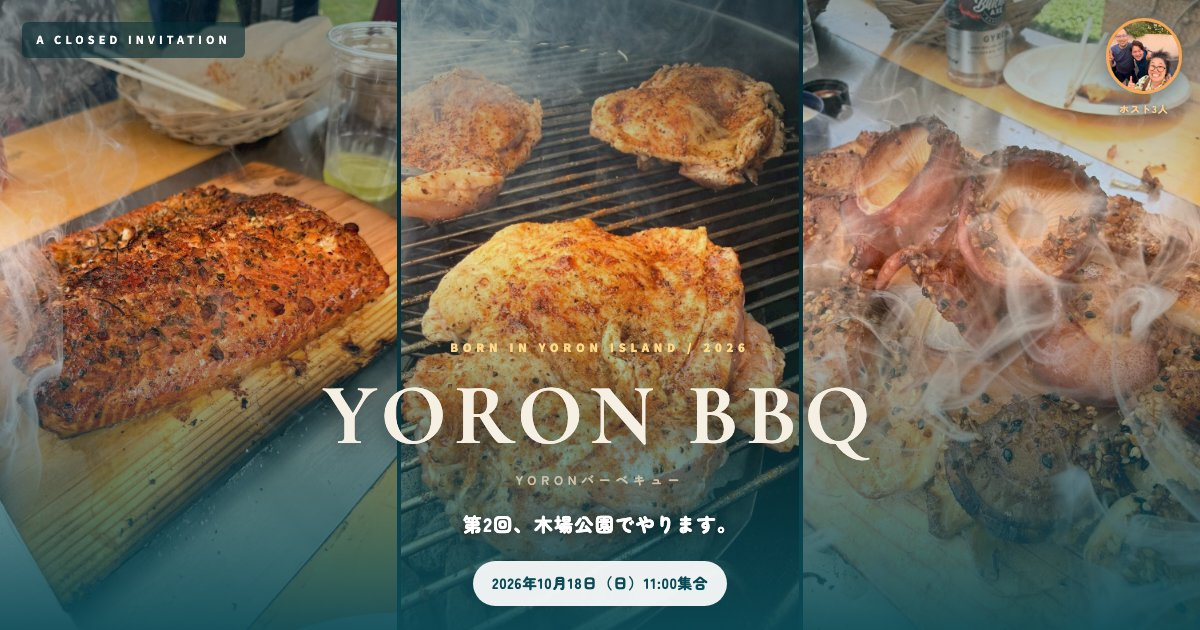
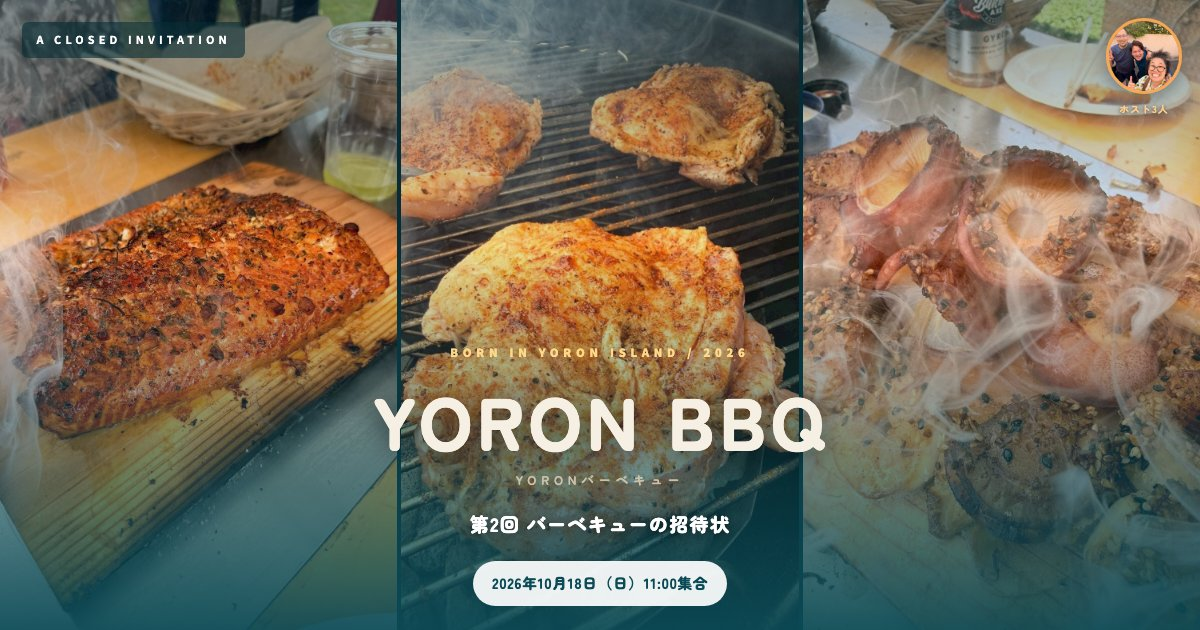
531招待状: ヒーロー見出しをZen Maru統一・トップ文言を『第2回 バーベキューの招待状』へ・冒頭に5/31開催の経緯を明記（山根FB）

Changed region(s): [[0.2467, 0.6032, 0.74, 0.7238], [0.37, 0.8143, 0.6167, 0.8444], [0.37, 0.5429, 0.6167, 0.573]]

diff --git a/invite/531.html b/invite/531.html
@@ -60,7 +60,7 @@
     .hero .hosts .cap { margin-top:.3rem; font-size:.62rem; letter-spacing:.1em; color:#ffca8a; font-weight:700; text-shadow:0 1px 4px rgba(0,0,0,.6); }
     .hero .tb { position:absolute; left:0; right:0; bottom:0; padding:0 24px 34px; text-align:center; }
     .hero .kicker { font-family:"Noto Sans JP",sans-serif; font-size:.7rem; letter-spacing:.42em; color:#ffd98a; font-weight:800; margin-bottom:.9rem; }
-    .hero h1 { font-family:"Cormorant Garamond","Times New Roman",serif; font-size:clamp(3rem,11vw,5.4rem); font-weight:700; color:#f6efe3; letter-spacing:.08em; line-height:1; text-shadow:0 4px 24px rgba(0,0,0,.45); }
+    .hero h1 { font-family:"Zen Maru Gothic","Noto Sans JP",sans-serif; font-size:clamp(2.6rem,9.5vw,4.6rem); font-weight:900; color:#f6efe3; letter-spacing:.06em; line-height:1.1; text-shadow:0 4px 24px rgba(0,0,0,.45); }
     .hero .yomi { margin-top:.5rem; font-size:.78rem; letter-spacing:.38em; color:#cdbfa8; font-weight:700; }
     .hero .sub { margin-top:.9rem; font-size:clamp(1rem,3.2vw,1.2rem); letter-spacing:.06em; color:#fff; font-weight:900; text-shadow:0 2px 12px rgba(0,0,0,.5); }
     .hero .date { display:inline-block; margin-top:1.1rem; background:rgba(255,255,255,.92); color:var(--yoron); font-weight:900; padding:.5rem 1.2rem; border-radius:100px; font-size:.92rem; letter-spacing:.04em; }
@@ -137,7 +137,7 @@
       <p class="kicker">BORN IN YORON ISLAND / 2026</p>
       <h1>YORON BBQ</h1>
       <p class="yomi">YORONバーベキュー</p>
-      <p class="sub">第2回、木場公園でやります。</p>
+      <p class="sub">第2回 バーベキューの招待状</p>
       <p class="date">2026年10月18日（日）11:00集合</p>
     </div>
   </header>
@@ -148,7 +148,9 @@
       <p class="k">INVITATION</p>
       <h2>あのバーベキューの、<br>第2回をやります。</h2>
       <p class="lead">朝の光がいい時間に火を入れて、夕方までご一緒します。</p>
-      <p class="quiet">このページは、第1回（5月31日・新木場）で火を囲んだ方から、「あの体験を受け取ってほしい」と思う方へ、直接手渡されるご招待です。届いた方は、そのままお読みください。</p>
+      <p class="quiet">2026年5月31日、新木場のHERO FIELDで、僕ら3人がホストになってバーベキューの会を開きました。ご参加いただいた皆さまに、ありがたいことにとても喜んでいただけた会でした。</p>
+      <p class="quiet">その第2回を、10月18日（日）に木場公園で開きます。今回は、5月31日にご参加いただいた方から、その方の大切な方へ、「この体験を受け取ってほしい」と思う方をお一人かお二人、お誘いいただく形にしています。</p>
+      <p class="quiet">このページは、そうしてお誘いいただいた方へのご招待状です。届いた方は、そのままお読みください。</p>
 
       <h3>はじめに</h3>
       <p class="quiet">「バーベキュー」と聞くと、多くの方は、</p>
